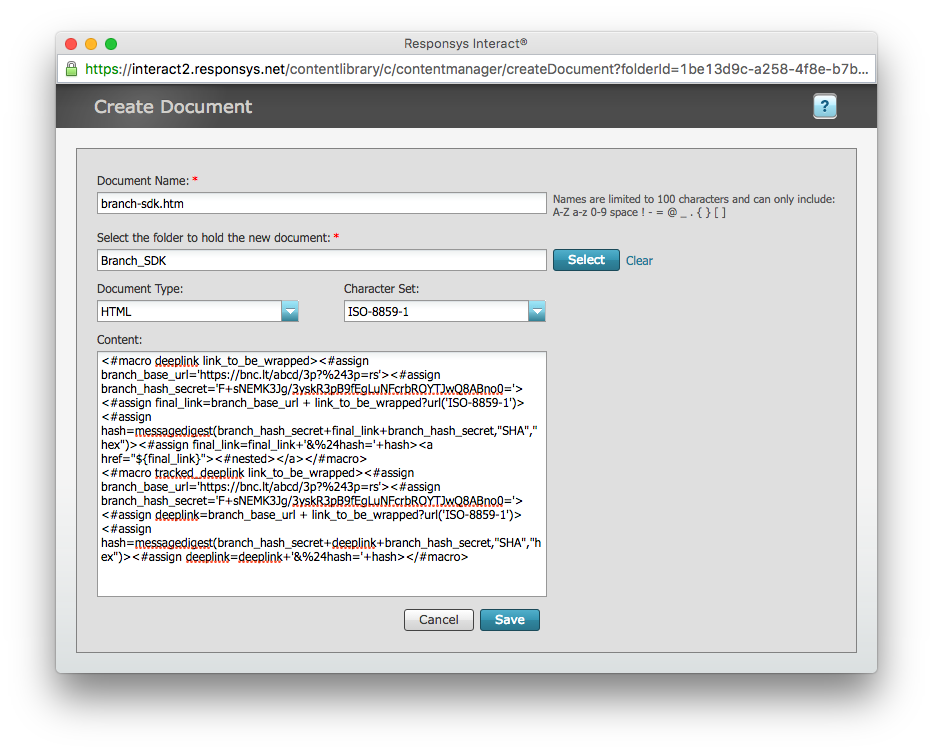
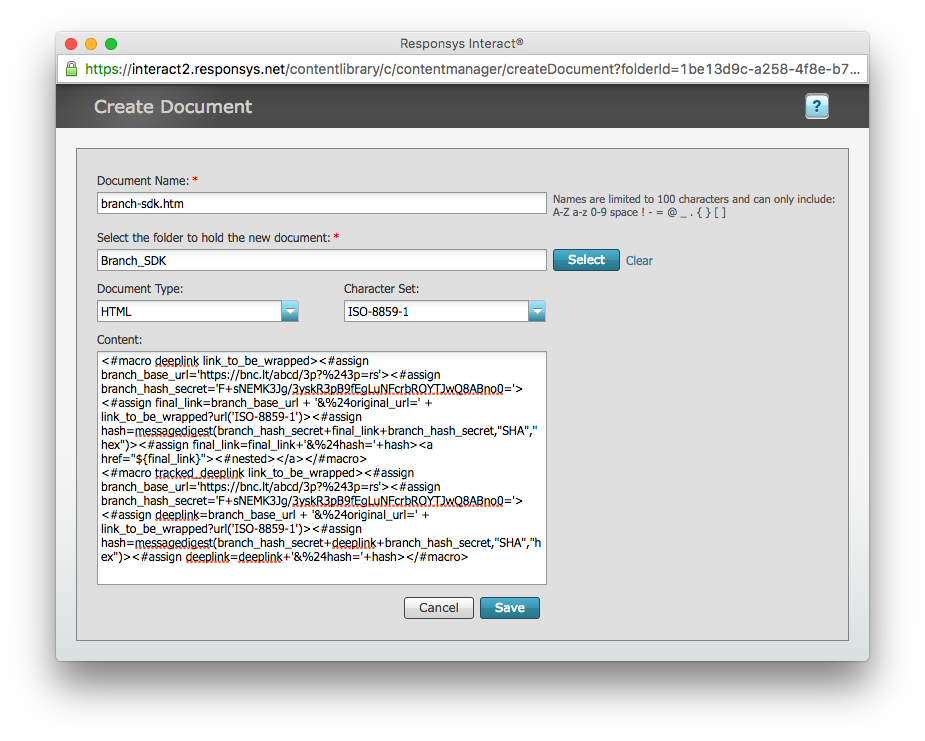
update responsys

Changed region(s): [[0.0605, 0.031, 0.9384, 0.8691]]

diff --git a/pages/third-party-integrations/responsys.md b/pages/third-party-integrations/responsys.md
@@ -114,8 +114,8 @@ Navigate to your Content Manager, and under `All Content`, create a new folder c
 Paste the following code snippet into the file, and put your secret key in it:
 
 {% highlight html %}
-<#macro deeplink link_to_be_wrapped><#assign branch_base_url='BASE URL FROM BRANCH'><#assign branch_hash_secret='HASH SECRET FROM BRANCH'><#assign final_link=branch_base_url + link_to_be_wrapped?url('ISO-8859-1')><#assign hash=messagedigest(branch_hash_secret+final_link+branch_hash_secret,"SHA","hex")><#assign final_link=final_link+'&%24hash='+hash><a href="${final_link}"><#nested></a></#macro>
-<#macro tracked_deeplink link_to_be_wrapped><#assign branch_base_url='BASE URL FROM BRANCH'><#assign branch_hash_secret='HASH SECRET FROM BRANCH'><#assign deeplink=branch_base_url + link_to_be_wrapped?url('ISO-8859-1')><#assign hash=messagedigest(branch_hash_secret+deeplink+branch_hash_secret,"SHA","hex")><#assign deeplink=deeplink+'&%24hash='+hash></#macro>
+<#macro deeplink link_to_be_wrapped><#assign branch_base_url='BASE URL FROM BRANCH'><#assign branch_hash_secret='HASH SECRET FROM BRANCH'><#assign final_link=branch_base_url + '&%24original_url=' + link_to_be_wrapped?url('ISO-8859-1')><#assign hash=messagedigest(branch_hash_secret+final_link+branch_hash_secret,"SHA","hex")><#assign final_link=final_link+'&%24hash='+hash><a href="${final_link}"><#nested></a></#macro>
+<#macro tracked_deeplink link_to_be_wrapped><#assign branch_base_url='BASE URL FROM BRANCH'><#assign branch_hash_secret='HASH SECRET FROM BRANCH'><#assign deeplink=branch_base_url + '&%24original_url=' + link_to_be_wrapped?url('ISO-8859-1')><#assign hash=messagedigest(branch_hash_secret+deeplink+branch_hash_secret,"SHA","hex")><#assign deeplink=deeplink+'&%24hash='+hash></#macro>
 {% endhighlight %}
 
 The code above does not include your base url or hash secret. You should obtain this from Branch.
@@ -124,8 +124,8 @@ The code above does not include your base url or hash secret. You should obtain 
 Create a file for the Branch SDK and paste in the following:
 
 {% highlight html %}
-<#macro deeplink link_to_be_wrapped><#assign branch_base_url='https://bnc.lt/abcd/3p?%243p=rs'><#assign branch_hash_secret='F+sNEMK3Jg/3yskR3pB9fEgLuNFcrbROYTJwQ8ABno0='><#assign final_link=branch_base_url + link_to_be_wrapped?url('ISO-8859-1')><#assign hash=messagedigest(branch_hash_secret+final_link+branch_hash_secret,"SHA","hex")><#assign final_link=final_link+'&%24hash='+hash><a href="${final_link}"><#nested></a></#macro>
-<#macro tracked_deeplink link_to_be_wrapped><#assign branch_base_url='https://bnc.lt/abcd/3p?%243p=rs'><#assign branch_hash_secret='F+sNEMK3Jg/3yskR3pB9fEgLuNFcrbROYTJwQ8ABno0='><#assign deeplink=branch_base_url + link_to_be_wrapped?url('ISO-8859-1')><#assign hash=messagedigest(branch_hash_secret+deeplink+branch_hash_secret,"SHA","hex")><#assign deeplink=deeplink+'&%24hash='+hash></#macro>
+<#macro deeplink link_to_be_wrapped><#assign branch_base_url='https://bnc.lt/abcd/3p?%243p=rs'><#assign branch_hash_secret='F+sNEMK3Jg/3yskR3pB9fEgLuNFcrbROYTJwQ8ABno0='><#assign final_link=branch_base_url + '&%24original_url=' + link_to_be_wrapped?url('ISO-8859-1')><#assign hash=messagedigest(branch_hash_secret+final_link+branch_hash_secret,"SHA","hex")><#assign final_link=final_link+'&%24hash='+hash><a href="${final_link}"><#nested></a></#macro>
+<#macro tracked_deeplink link_to_be_wrapped><#assign branch_base_url='https://bnc.lt/abcd/3p?%243p=rs'><#assign branch_hash_secret='F+sNEMK3Jg/3yskR3pB9fEgLuNFcrbROYTJwQ8ABno0='><#assign deeplink=branch_base_url + '&%24original_url=' + link_to_be_wrapped?url('ISO-8859-1')><#assign hash=messagedigest(branch_hash_secret+deeplink+branch_hash_secret,"SHA","hex")><#assign deeplink=deeplink+'&%24hash='+hash></#macro>
 {% endhighlight %}
 
 Screenshot:
